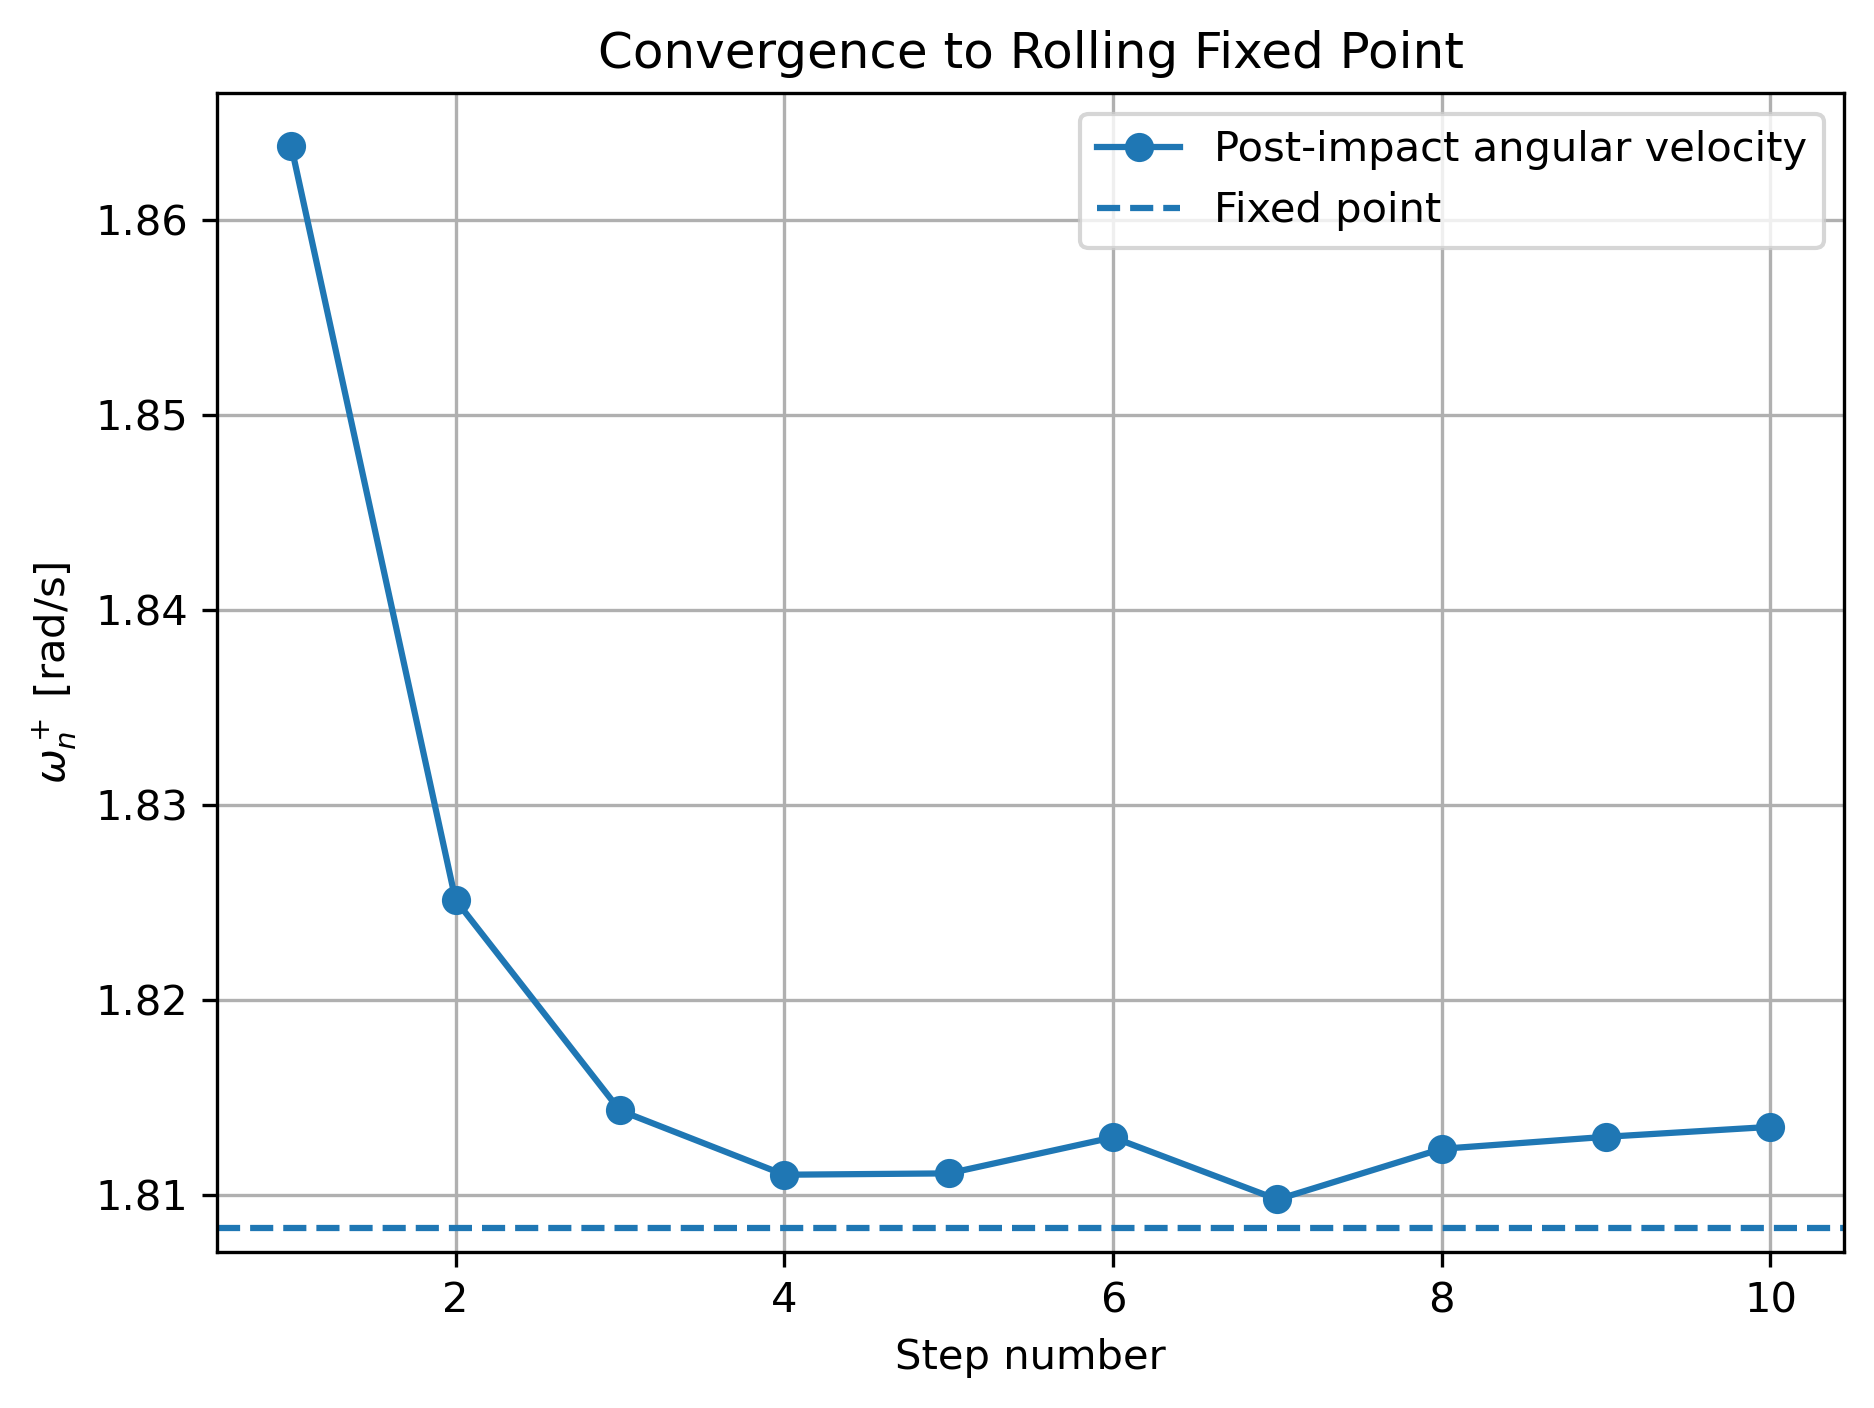
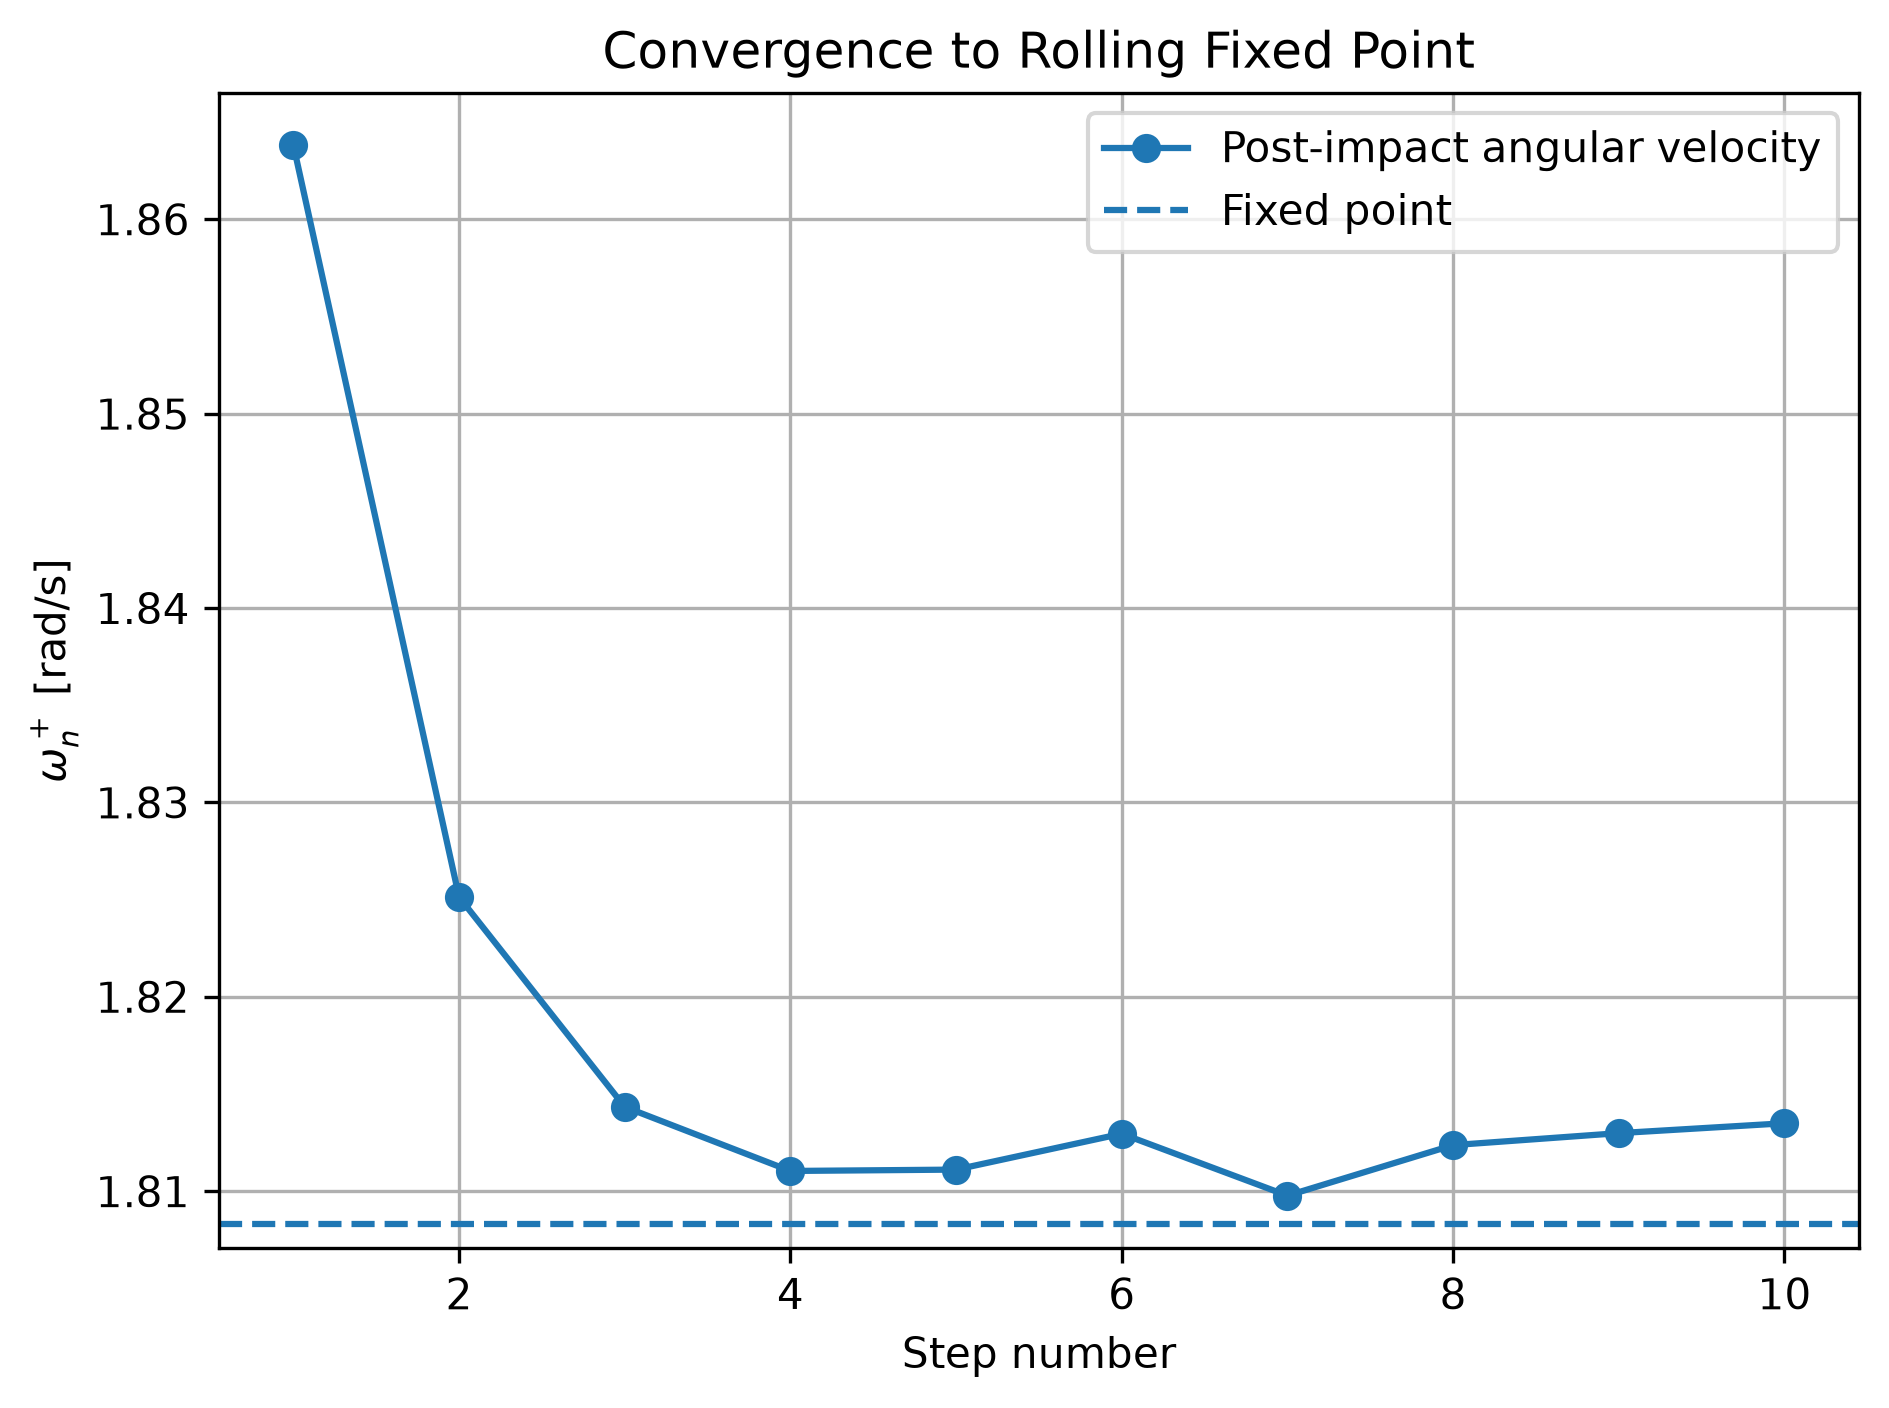
Update assignment 1

diff --git a/assignment_1.py b/assignment_1.py
@@ -174,57 +174,103 @@ def calculate_convergence(params, timestep, sim_time, initial_omega, num_contact
 
     return np.array(theta_dot_pos)
 
+# REGION OF ATTRACTION ARRAYS
+limit_theta = []
+limit_omega = []
+
+standstill_theta = []
+standstill_omega = []
 
 # ATTRACTOR CLASSIFICATION
-def classify_initial_condition(initial_state, params, timestep, sim_time, omega_tolerance=0.02):
+def classify_initial_condition(initial_state, params, timestep, sim_time, omega_tolerance=0.005):
 
-    (time_result, state_result, theta_dot_pos, contact_indices, pre_impact_states, post_impact_states) = integrate(model.dynamics, model.is_touching, model.reset_params, initial_state, timestep, sim_time, params, num_contacts=None)
+    (time_result, state_result, theta_dot_pos, contact_indices, pre_impact_states, post_impact_states) = integrate(
+        model.dynamics,
+        model.is_touching,
+        model.reset_params,
+        initial_state,
+        timestep,
+        sim_time,
+        params,
+        num_contacts=None
+    )
 
-    omega_fixed = calculate_fixed_point(params)
+    # Need at least three contacts to determine whether the angular velocity has converged
+    if len(theta_dot_pos) < 3:
+        return 0
 
-    # ROLLING LIMIT CYCLE
-    if (len(theta_dot_pos) >= 5 and np.isfinite(omega_fixed)):
+    # Store the post-impact angular velocities
+    omega_values = np.array(theta_dot_pos)
 
-        recent_velocities = np.array(theta_dot_pos[-5:])
+    # Check the final three post-impact angular velocities
+    recent_velocities = omega_values[-3:]
 
-        if np.all(np.abs(recent_velocities- omega_fixed)< omega_tolerance):
-            return 1 #means its rolling
+    # Determine whether the final three velocities are close to one another
+    if np.max(recent_velocities) - np.min(recent_velocities) < omega_tolerance:
 
-    # NON-WALKING / FALLING
+        # Make sure the walker is moving forward
+        if recent_velocities[-1] > 0:
+            return 1
+
+    # Standstill/didn't meet conditions for rolling 
     return 0
 
 # REGION OF ATTRACTION
 def calculate_roa(params, timestep, sim_time, theta_values, omega_values):
 
-    roa = np.zeros((len(omega_values), len(theta_values)))
+    #had to look up, just makes it so that they aren't writing on top of everthing else
+    global limit_theta, limit_omega
+    global standstill_theta, standstill_omega
+
+    # Clear the arrays before running the RoA calculation
+    limit_theta = []
+    limit_omega = []
+
+    standstill_theta = []
+    standstill_omega = []
 
     for i, omega in enumerate(omega_values):
 
         print(f"RoA row {i + 1}/{len(omega_values)}")
 
         for j, theta in enumerate(theta_values):
-            initial_state = np.array([theta, omega])
-            roa[i, j] = classify_initial_condition(initial_state, params, timestep,sim_time)
 
-    return roa
+            # Initial condition for this simulation
+            initial_state = np.array([theta, omega])
+
+            # Run one simulation from this initial condition
+            classification = classify_initial_condition(
+                initial_state,
+                params,
+                timestep,
+                sim_time
+            )
+
+            # Store the initial condition based on its final behavior
+            if classification == 1:
+                #adds both ICS to a list for rolling motion (limit cycle)
+                limit_theta.append(theta)
+                limit_omega.append(omega)
+
+            else:
+                #adds both ICs to a list for stopping motion
+                standstill_theta.append(theta)
+                standstill_omega.append(omega)
+
 
 # PLOT REGION OF ATTRACTION
-def plot_roa(theta_values,omega_values, roa,params,limit_cycle=None):
+def plot_roa(params):
 
     gamma = params["gamma"]
-
     plt.figure()
-    plt.plot(theta_values, omega_values, linewidth=2, label="Rolling limit cycle")
-    plt.xlabel(r"$\theta$ [rad]")
-    plt.ylabel(r"$\dot{\theta}$ [rad/s]")
-    plt.title(f"Region of Attraction, N = {params['N']}, $\\gamma$ = {np.degrees(gamma):.1f}$^\\circ$")
-    if limit_cycle is not None:
-        plt.plot(limit_cycle[0], limit_cycle[1], linewidth=2.5, label="Rolling limit cycle")
-        plt.scatter(limit_cycle[0, 0], limit_cycle[1, 0], s=70, label="Post-impact fixed point")
-        plt.legend()
+    plt.scatter(limit_theta, limit_omega, color="blue", s=15, label="Rolling limit cycle")
+    plt.scatter(standstill_theta, standstill_omega, color="red", s=15, label="Standstill")
+    plt.xlabel("Theta (rad)")
+    plt.ylabel("Omega (rad/s)")
+    plt.title(f"Region of Attraction for gamma={np.degrees(gamma):.1f}°")
+    plt.legend()
     plt.grid(True)
-    plt.tight_layout()
-    plt.savefig("assignment_1_graphs/RoA_N6_g30.png", dpi=300, bbox_inches="tight")
+    plt.savefig("assignment_1_graphs/roa_plot.png", dpi=300, bbox_inches="tight")
     plt.show()
 
 
@@ -264,7 +310,11 @@ def inclination_sweep(params, gamma_values, timestep, sim_time):
 
         #calculates region of attraction 
         roa = calculate_roa(sweep_params, timestep, sim_time, theta_values, omega_values)
-        roa_fraction = np.mean(roa == 1)
+        total_point=len(limit_theta)+len(standstill_theta)
+        if total_point > 0:
+            roa_fraction = len(limit_theta) / total_point
+        else:
+            roa_fraction = 0.0
         roa_sizes.append(roa_fraction)
 
     return np.array(roa_sizes), np.array(floquet_values)
@@ -306,7 +356,11 @@ def spoke_sweep(params, spoke_values, timestep, sim_time):
         omega_values = np.linspace(0, omega_max, 35)
 
         roa = calculate_roa(sweep_params,timestep,sim_time,theta_values, omega_values)
-        roa_fraction = np.mean(roa == 1)
+        total_point=len(limit_theta)+len(standstill_theta)
+        if total_point > 0:
+            roa_fraction = len(limit_theta) / total_point
+        else:   
+            roa_fraction = 0.0
         roa_sizes.append(roa_fraction)
 
     return np.array(roa_sizes), np.array(floquet_values)
@@ -459,14 +513,19 @@ if __name__ == "__main__":
 
     # REGION OF ATTRACTION
     theta_values = np.linspace(gamma - alpha, gamma + alpha, 50)
-    omega_values_roa = np.linspace(0, max(3.0, 1.5 * omega_fixed), 50)
+    omega_values_roa = np.linspace(-2*np.pi, 2*np.pi, 50)
 
     print("REGION OF ATTRACTION")
     roa = calculate_roa(params, timestep, sim_time, theta_values, omega_values_roa)
 
-    plot_roa(theta_values, omega_values_roa, roa, params, limit_cycle=limit_cycle)
+    plot_roa(params)
 
-    roa_fraction = np.mean(roa == 1)
+    total_point=len(limit_theta)+len(standstill_theta)
+
+    if total_point > 0:
+        roa_fraction = len(limit_theta) / total_point
+    else:
+        roa_fraction = 0.0
 
     print(f"Rolling limit-cycle RoA fraction = {roa_fraction:.4f}")
 

diff --git a/assignment_1_report.md b/assignment_1_report.md
@@ -10,14 +10,28 @@ wsl
 git clone https://github.com/JonathanDistler/MAE5110CodeAssignments.git
 
 cd MAE5110CodeAssignments
+```
 
+After installing *uv* as the environment manager, synchronize the project environment:
+```bash
 uv sync --python 3.14
 ```
 
-Then,
+Then, run the assignment:
 
 ```bash
-python assignment_1.py
+uv run python assignment_1.py
+```
+
+As a side note, if someone has already cloned the repository previously, they need to run:
+```bash
+cd MAE5110CodeAssignments
+
+git pull
+
+uv sync --python 3.14
+
+uv run python assignment_1.py
 ```
 
 The sanity checks were implemented before the actual `assignment_1.py`, and the corresponding assignment was built on top of much of its functionality. The first sanity check was to plot time versus $\theta$ and time versus $\dot{\theta}$ for a well-studied case consisting of a 6-spoke rimless wheel on a 30-degree incline. I expected the system to exhibit cyclical motion corresponding to a stable rolling gait, much like the moon-stepper. The resulting plots showed the expected cyclical behavior, which indicated that the original dynamical derivation and numerical implementation were working as intended.
@@ -62,25 +76,17 @@ As seen in the graphs, all of the inclines produced similar (and small) Floquet 
 
 More permutations of inclination, number of spokes, and initial conditions could be considered at a great computational cost, but they all highlight the following: a system will only walk forward if
 
-$$
-\dot{\theta} > \omega_1
-=
-\sqrt{
-2\frac{g}{l}
-\left(
-1-\cos(\gamma-\alpha)
-\right)
-},
-$$
+$\dot{\theta} > \omega_1=\sqrt{2\frac{g}{l}\left(1-\cos(\gamma-\alpha)\right)},$
 
 with $\alpha$ defined as
 
-$$
-\alpha=\frac{\pi}{N}.
-$$
+$\alpha=\frac{\pi}{N}$
 
 As an aside, the return map is undefined in some specific instances because the wheel will end up at $\theta=\dot{\theta}=0$ [Underactuated Robotics](https://underactuated.csail.mit.edu/simple_legs.html?utm_source=chatgpt.com#Coleman98a)
  
 <img src="assignment_1_graphs/floquet_mult_vs_inclination.png" width="500">
 
 <img src="assignment_1_graphs/floquet_vs_num_spokes.png" width="500">
+
+## Questions for the Reviewer
+I have a few points of contention in regards to my code base. Primarily, I'm concerned about the Region of Attraction (RoA) calculations; I had been comparing the last three angualr velocities (post-impact) to see if the two further apart were below a tolerance threshold. I wasn't sure if this was the same methodology that was recommended, if my tolerances were too tight, and the means to verify a reasonable tolerance from numerically introduced friction. The next question I had was whether or not there was a way to matricize the code or use add-ons that made the code run quicker. I had deduced a .001 s time-step from tests that monitored $\Delta\dot{\theta}$ to determine the point at which the numerical solution began to diverge, however, I think that I chose too small of a time-step. Finally, what is a reasonable space to test the RoA over; $\theta$ is bounded physically from [$-2\pi$, $2\pi$], however, $\dot{\theta}$ doesn't seem to have a bound. Are there any considerations for choosing an appropriate $\dot{\theta}$? 
